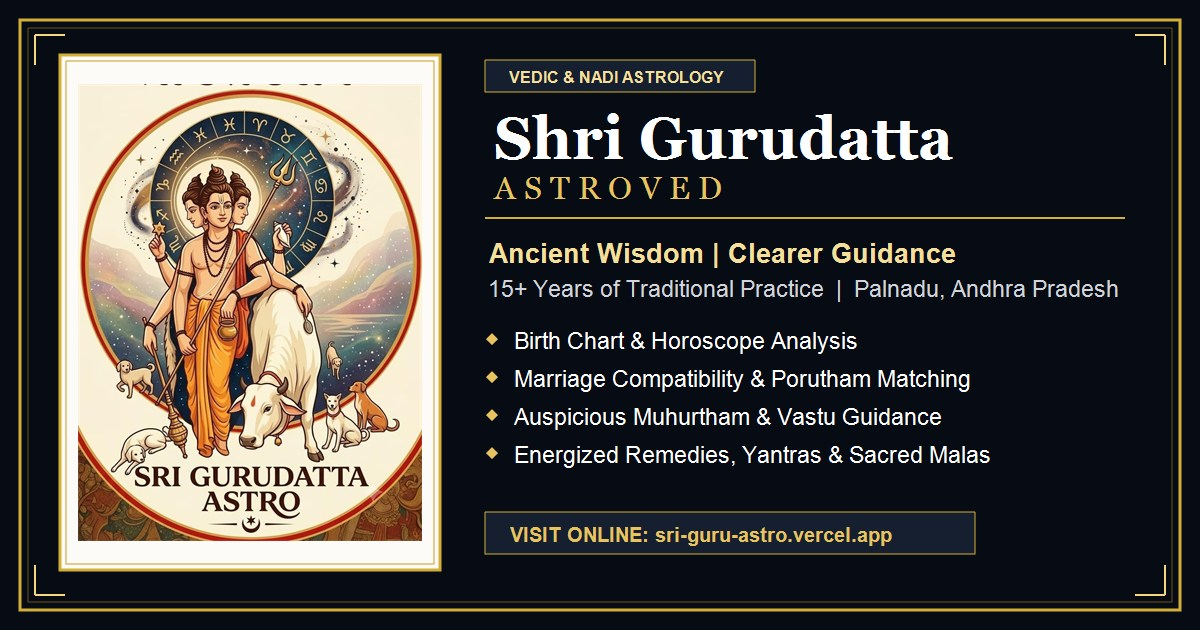
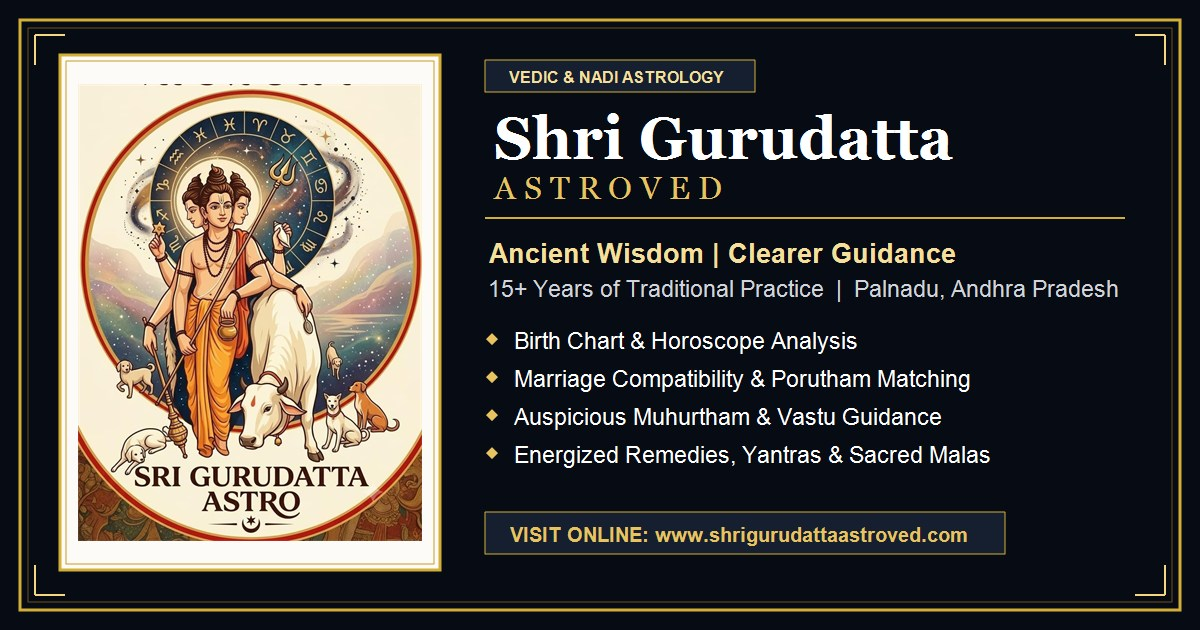
adminfixed

Changed region(s): [[0.5242, 0.8143, 0.8633, 0.8746]]

diff --git a/index.html b/index.html
@@ -8,12 +8,12 @@
   
   <!-- Open Graph / WhatsApp / Facebook / Telegram -->
   <meta property="og:type" content="website">
-  <meta property="og:url" content="https://sri-guru-astro.vercel.app/">
+  <meta property="og:url" content="https://www.shrigurudattaastroved.com/">
   <meta property="og:site_name" content="Shri Gurudatta Astroved">
   <meta property="og:title" content="Shri Gurudatta Astroved | 15+ Years of Vedic Astrology Guidance">
   <meta property="og:description" content="Traditional Vedic astrology, Bhrigu Nandi Nadi, KP System, and spiritual guidance in Palnadu, Andhra Pradesh.">
-  <meta property="og:image" content="https://res.cloudinary.com/tkvwcljs/image/upload/v1791043918/gurudatta_astro/og_preview.jpg">
-  <meta property="og:image:secure_url" content="https://res.cloudinary.com/tkvwcljs/image/upload/v1791043918/gurudatta_astro/og_preview.jpg">
+  <meta property="og:image" content="https://res.cloudinary.com/tkvwcljs/image/upload/v1791049320/gurudatta_astro/og_preview.jpg">
+  <meta property="og:image:secure_url" content="https://res.cloudinary.com/tkvwcljs/image/upload/v1791049320/gurudatta_astro/og_preview.jpg">
   <meta property="og:image:type" content="image/jpeg">
   <meta property="og:image:width" content="1200">
   <meta property="og:image:height" content="630">
@@ -21,12 +21,12 @@
 
   <!-- Twitter / X -->
   <meta name="twitter:card" content="summary_large_image">
-  <meta name="twitter:url" content="https://sri-guru-astro.vercel.app/">
+  <meta name="twitter:url" content="https://www.shrigurudattaastroved.com/">
   <meta name="twitter:title" content="Shri Gurudatta Astroved | 15+ Years of Vedic Astrology Guidance">
   <meta name="twitter:description" content="Traditional Vedic astrology, Bhrigu Nandi Nadi, KP System, and spiritual guidance in Palnadu, Andhra Pradesh.">
-  <meta name="twitter:image" content="https://res.cloudinary.com/tkvwcljs/image/upload/v1791043918/gurudatta_astro/og_preview.jpg">
+  <meta name="twitter:image" content="https://res.cloudinary.com/tkvwcljs/image/upload/v1791049320/gurudatta_astro/og_preview.jpg">
 
-  <link rel="canonical" href="https://sri-guru-astro.vercel.app/">
+  <link rel="canonical" href="https://www.shrigurudattaastroved.com/">
 
   <!-- Google Fonts: Cormorant Garamond & Outfit -->
   <link rel="preconnect" href="https://fonts.googleapis.com">
@@ -42,9 +42,9 @@
     "@context": "https://schema.org",
     "@type": "ProfessionalService",
     "name": "Shri Gurudatta Astroved",
-    "image": "https://res.cloudinary.com/tkvwcljs/image/upload/v1791043918/gurudatta_astro/og_preview.jpg",
-    "@id": "https://sri-guru-astro.vercel.app/",
-    "url": "https://sri-guru-astro.vercel.app/",
+    "image": "https://res.cloudinary.com/tkvwcljs/image/upload/v1791049320/gurudatta_astro/og_preview.jpg",
+    "@id": "https://www.shrigurudattaastroved.com/",
+    "url": "https://www.shrigurudattaastroved.com/",
     "telephone": "+919063862498",
     "priceRange": "₹₹",
     "address": {

diff --git a/service-horoscope-analysis.html b/service-horoscope-analysis.html
@@ -9,24 +9,24 @@
   
   <!-- Open Graph / WhatsApp / Facebook / Telegram -->
   <meta property="og:type" content="website">
-  <meta property="og:url" content="https://sri-guru-astro.vercel.app/service-horoscope-analysis.html">
+  <meta property="og:url" content="https://www.shrigurudattaastroved.com/service-horoscope-analysis.html">
   <meta property="og:site_name" content="Shri Gurudatta Astroved">
   <meta property="og:title" content="Complete Horoscope Analysis | Shri Gurudatta Astroved">
   <meta property="og:description" content="In-depth birth chart (Janma Kundali) analysis across 12 houses of life, planetary yogas, Dasha periods, and personalized remedies with 15+ years experience.">
-  <meta property="og:image" content="https://res.cloudinary.com/tkvwcljs/image/upload/v1791043918/gurudatta_astro/og_preview.jpg">
-  <meta property="og:image:secure_url" content="https://res.cloudinary.com/tkvwcljs/image/upload/v1791043918/gurudatta_astro/og_preview.jpg">
+  <meta property="og:image" content="https://res.cloudinary.com/tkvwcljs/image/upload/v1791049320/gurudatta_astro/og_preview.jpg">
+  <meta property="og:image:secure_url" content="https://res.cloudinary.com/tkvwcljs/image/upload/v1791049320/gurudatta_astro/og_preview.jpg">
   <meta property="og:image:type" content="image/jpeg">
   <meta property="og:image:width" content="1200">
   <meta property="og:image:height" content="630">
 
   <!-- Twitter / X -->
   <meta name="twitter:card" content="summary_large_image">
-  <meta name="twitter:url" content="https://sri-guru-astro.vercel.app/service-horoscope-analysis.html">
+  <meta name="twitter:url" content="https://www.shrigurudattaastroved.com/service-horoscope-analysis.html">
   <meta name="twitter:title" content="Complete Horoscope Analysis | Shri Gurudatta Astroved">
   <meta name="twitter:description" content="In-depth birth chart (Janma Kundali) analysis across 12 houses of life, planetary yogas, Dasha periods, and personalized remedies with 15+ years experience.">
-  <meta name="twitter:image" content="https://res.cloudinary.com/tkvwcljs/image/upload/v1791043918/gurudatta_astro/og_preview.jpg">
+  <meta name="twitter:image" content="https://res.cloudinary.com/tkvwcljs/image/upload/v1791049320/gurudatta_astro/og_preview.jpg">
 
-  <link rel="canonical" href="https://sri-guru-astro.vercel.app/service-horoscope-analysis.html">
+  <link rel="canonical" href="https://www.shrigurudattaastroved.com/service-horoscope-analysis.html">
 <link rel="preconnect" href="https://fonts.googleapis.com">
   <link rel="preconnect" href="https://fonts.gstatic.com" crossorigin>
   <link href="https://fonts.googleapis.com/css2?family=Cormorant+Garamond:ital,wght@0,400;0,500;0,600;0,700;1,400;1,600&family=Outfit:wght@300;400;500;600;700&display=swap" rel="stylesheet">

diff --git a/service-marriage-counselling.html b/service-marriage-counselling.html
@@ -8,24 +8,24 @@
   
   <!-- Open Graph / WhatsApp / Facebook / Telegram -->
   <meta property="og:type" content="website">
-  <meta property="og:url" content="https://sri-guru-astro.vercel.app/service-marriage-counselling.html">
+  <meta property="og:url" content="https://www.shrigurudattaastroved.com/service-marriage-counselling.html">
   <meta property="og:site_name" content="Shri Gurudatta Astroved">
   <meta property="og:title" content="Marriage Counselling | Shri Gurudatta Astroved">
   <meta property="og:description" content="Astrological resolution of marital misunderstandings, transits causing friction, and peaceful remedial paths with 15+ years experience.">
-  <meta property="og:image" content="https://res.cloudinary.com/tkvwcljs/image/upload/v1791043918/gurudatta_astro/og_preview.jpg">
-  <meta property="og:image:secure_url" content="https://res.cloudinary.com/tkvwcljs/image/upload/v1791043918/gurudatta_astro/og_preview.jpg">
+  <meta property="og:image" content="https://res.cloudinary.com/tkvwcljs/image/upload/v1791049320/gurudatta_astro/og_preview.jpg">
+  <meta property="og:image:secure_url" content="https://res.cloudinary.com/tkvwcljs/image/upload/v1791049320/gurudatta_astro/og_preview.jpg">
   <meta property="og:image:type" content="image/jpeg">
   <meta property="og:image:width" content="1200">
   <meta property="og:image:height" content="630">
 
   <!-- Twitter / X -->
   <meta name="twitter:card" content="summary_large_image">
-  <meta name="twitter:url" content="https://sri-guru-astro.vercel.app/service-marriage-counselling.html">
+  <meta name="twitter:url" content="https://www.shrigurudattaastroved.com/service-marriage-counselling.html">
   <meta name="twitter:title" content="Marriage Counselling | Shri Gurudatta Astroved">
   <meta name="twitter:description" content="Astrological resolution of marital misunderstandings, transits causing friction, and peaceful remedial paths with 15+ years experience.">
-  <meta name="twitter:image" content="https://res.cloudinary.com/tkvwcljs/image/upload/v1791043918/gurudatta_astro/og_preview.jpg">
+  <meta name="twitter:image" content="https://res.cloudinary.com/tkvwcljs/image/upload/v1791049320/gurudatta_astro/og_preview.jpg">
 
-  <link rel="canonical" href="https://sri-guru-astro.vercel.app/service-marriage-counselling.html">
+  <link rel="canonical" href="https://www.shrigurudattaastroved.com/service-marriage-counselling.html">
 <link rel="preconnect" href="https://fonts.googleapis.com">
   <link rel="preconnect" href="https://fonts.gstatic.com" crossorigin>
   <link href="https://fonts.googleapis.com/css2?family=Cormorant+Garamond:ital,wght@0,400;0,500;0,600;0,700;1,400;1,600&family=Outfit:wght@300;400;500;600;700&display=swap" rel="stylesheet">

diff --git a/service-astro-counselling.html b/service-astro-counselling.html
@@ -8,24 +8,24 @@
   
   <!-- Open Graph / WhatsApp / Facebook / Telegram -->
   <meta property="og:type" content="website">
-  <meta property="og:url" content="https://sri-guru-astro.vercel.app/service-astro-counselling.html">
+  <meta property="og:url" content="https://www.shrigurudattaastroved.com/service-astro-counselling.html">
   <meta property="og:site_name" content="Shri Gurudatta Astroved">
   <meta property="og:title" content="Astro Counselling | Shri Gurudatta Astroved">
   <meta property="og:description" content="Empathetic, confidential astrological counselling for career stagnation, emotional stress, and major life decisions with 15+ years experience.">
-  <meta property="og:image" content="https://res.cloudinary.com/tkvwcljs/image/upload/v1791043918/gurudatta_astro/og_preview.jpg">
-  <meta property="og:image:secure_url" content="https://res.cloudinary.com/tkvwcljs/image/upload/v1791043918/gurudatta_astro/og_preview.jpg">
+  <meta property="og:image" content="https://res.cloudinary.com/tkvwcljs/image/upload/v1791049320/gurudatta_astro/og_preview.jpg">
+  <meta property="og:image:secure_url" content="https://res.cloudinary.com/tkvwcljs/image/upload/v1791049320/gurudatta_astro/og_preview.jpg">
   <meta property="og:image:type" content="image/jpeg">
   <meta property="og:image:width" content="1200">
   <meta property="og:image:height" content="630">
 
   <!-- Twitter / X -->
   <meta name="twitter:card" content="summary_large_image">
-  <meta name="twitter:url" content="https://sri-guru-astro.vercel.app/service-astro-counselling.html">
+  <meta name="twitter:url" content="https://www.shrigurudattaastroved.com/service-astro-counselling.html">
   <meta name="twitter:title" content="Astro Counselling | Shri Gurudatta Astroved">
   <meta name="twitter:description" content="Empathetic, confidential astrological counselling for career stagnation, emotional stress, and major life decisions with 15+ years experience.">
-  <meta name="twitter:image" content="https://res.cloudinary.com/tkvwcljs/image/upload/v1791043918/gurudatta_astro/og_preview.jpg">
+  <meta name="twitter:image" content="https://res.cloudinary.com/tkvwcljs/image/upload/v1791049320/gurudatta_astro/og_preview.jpg">
 
-  <link rel="canonical" href="https://sri-guru-astro.vercel.app/service-astro-counselling.html">
+  <link rel="canonical" href="https://www.shrigurudattaastroved.com/service-astro-counselling.html">
 <link rel="preconnect" href="https://fonts.googleapis.com">
   <link rel="preconnect" href="https://fonts.gstatic.com" crossorigin>
   <link href="https://fonts.googleapis.com/css2?family=Cormorant+Garamond:ital,wght@0,400;0,500;0,600;0,700;1,400;1,600&family=Outfit:wght@300;400;500;600;700&display=swap" rel="stylesheet">

diff --git a/service-general-prediction.html b/service-general-prediction.html
@@ -9,24 +9,24 @@
   
   <!-- Open Graph / WhatsApp / Facebook / Telegram -->
   <meta property="og:type" content="website">
-  <meta property="og:url" content="https://sri-guru-astro.vercel.app/service-general-prediction.html">
+  <meta property="og:url" content="https://www.shrigurudattaastroved.com/service-general-prediction.html">
   <meta property="og:site_name" content="Shri Gurudatta Astroved">
   <meta property="og:title" content="General Prediction | Shri Gurudatta Astroved">
   <meta property="og:description" content="Get clarity on your current life cycle, planetary transits, and upcoming trends with authentic Vedic guidance and 15+ years experience.">
-  <meta property="og:image" content="https://res.cloudinary.com/tkvwcljs/image/upload/v1791043918/gurudatta_astro/og_preview.jpg">
-  <meta property="og:image:secure_url" content="https://res.cloudinary.com/tkvwcljs/image/upload/v1791043918/gurudatta_astro/og_preview.jpg">
+  <meta property="og:image" content="https://res.cloudinary.com/tkvwcljs/image/upload/v1791049320/gurudatta_astro/og_preview.jpg">
+  <meta property="og:image:secure_url" content="https://res.cloudinary.com/tkvwcljs/image/upload/v1791049320/gurudatta_astro/og_preview.jpg">
   <meta property="og:image:type" content="image/jpeg">
   <meta property="og:image:width" content="1200">
   <meta property="og:image:height" content="630">
 
   <!-- Twitter / X -->
   <meta name="twitter:card" content="summary_large_image">
-  <meta name="twitter:url" content="https://sri-guru-astro.vercel.app/service-general-prediction.html">
+  <meta name="twitter:url" content="https://www.shrigurudattaastroved.com/service-general-prediction.html">
   <meta name="twitter:title" content="General Prediction | Shri Gurudatta Astroved">
   <meta name="twitter:description" content="Get clarity on your current life cycle, planetary transits, and upcoming trends with authentic Vedic guidance and 15+ years experience.">
-  <meta name="twitter:image" content="https://res.cloudinary.com/tkvwcljs/image/upload/v1791043918/gurudatta_astro/og_preview.jpg">
+  <meta name="twitter:image" content="https://res.cloudinary.com/tkvwcljs/image/upload/v1791049320/gurudatta_astro/og_preview.jpg">
 
-  <link rel="canonical" href="https://sri-guru-astro.vercel.app/service-general-prediction.html">
+  <link rel="canonical" href="https://www.shrigurudattaastroved.com/service-general-prediction.html">
 <link rel="preconnect" href="https://fonts.googleapis.com">
   <link rel="preconnect" href="https://fonts.gstatic.com" crossorigin>
   <link href="https://fonts.googleapis.com/css2?family=Cormorant+Garamond:ital,wght@0,400;0,500;0,600;0,700;1,400;1,600&family=Outfit:wght@300;400;500;600;700&display=swap" rel="stylesheet">

diff --git a/service-marriage-matching.html b/service-marriage-matching.html
@@ -8,24 +8,24 @@
   
   <!-- Open Graph / WhatsApp / Facebook / Telegram -->
   <meta property="og:type" content="website">
-  <meta property="og:url" content="https://sri-guru-astro.vercel.app/service-marriage-matching.html">
+  <meta property="og:url" content="https://www.shrigurudattaastroved.com/service-marriage-matching.html">
   <meta property="og:site_name" content="Shri Gurudatta Astroved">
   <meta property="og:title" content="Marriage Matching | Shri Gurudatta Astroved">
   <meta property="og:description" content="Traditional Vedic horoscope matching, Ashtakoota compatibility, Manglik dosha balancing, and longevity analysis with 15+ years experience.">
-  <meta property="og:image" content="https://res.cloudinary.com/tkvwcljs/image/upload/v1791043918/gurudatta_astro/og_preview.jpg">
-  <meta property="og:image:secure_url" content="https://res.cloudinary.com/tkvwcljs/image/upload/v1791043918/gurudatta_astro/og_preview.jpg">
+  <meta property="og:image" content="https://res.cloudinary.com/tkvwcljs/image/upload/v1791049320/gurudatta_astro/og_preview.jpg">
+  <meta property="og:image:secure_url" content="https://res.cloudinary.com/tkvwcljs/image/upload/v1791049320/gurudatta_astro/og_preview.jpg">
   <meta property="og:image:type" content="image/jpeg">
   <meta property="og:image:width" content="1200">
   <meta property="og:image:height" content="630">
 
   <!-- Twitter / X -->
   <meta name="twitter:card" content="summary_large_image">
-  <meta name="twitter:url" content="https://sri-guru-astro.vercel.app/service-marriage-matching.html">
+  <meta name="twitter:url" content="https://www.shrigurudattaastroved.com/service-marriage-matching.html">
   <meta name="twitter:title" content="Marriage Matching | Shri Gurudatta Astroved">
   <meta name="twitter:description" content="Traditional Vedic horoscope matching, Ashtakoota compatibility, Manglik dosha balancing, and longevity analysis with 15+ years experience.">
-  <meta name="twitter:image" content="https://res.cloudinary.com/tkvwcljs/image/upload/v1791043918/gurudatta_astro/og_preview.jpg">
+  <meta name="twitter:image" content="https://res.cloudinary.com/tkvwcljs/image/upload/v1791049320/gurudatta_astro/og_preview.jpg">
 
-  <link rel="canonical" href="https://sri-guru-astro.vercel.app/service-marriage-matching.html">
+  <link rel="canonical" href="https://www.shrigurudattaastroved.com/service-marriage-matching.html">
 <link rel="preconnect" href="https://fonts.googleapis.com">
   <link rel="preconnect" href="https://fonts.gstatic.com" crossorigin>
   <link href="https://fonts.googleapis.com/css2?family=Cormorant+Garamond:ital,wght@0,400;0,500;0,600;0,700;1,400;1,600&family=Outfit:wght@300;400;500;600;700&display=swap" rel="stylesheet">

diff --git a/service-homam-puja.html b/service-homam-puja.html
@@ -8,24 +8,24 @@
   
   <!-- Open Graph / WhatsApp / Facebook / Telegram -->
   <meta property="og:type" content="website">
-  <meta property="og:url" content="https://sri-guru-astro.vercel.app/service-homam-puja.html">
+  <meta property="og:url" content="https://www.shrigurudattaastroved.com/service-homam-puja.html">
   <meta property="og:site_name" content="Shri Gurudatta Astroved">
   <meta property="og:title" content="Homam, Japam & Puja Services | Shri Gurudatta Astroved">
   <meta property="og:description" content="Authentic Vedic fire rituals, Navagraha Shanti, and Mantra Japa performed according to strict Shastric injunctions with 15+ years experience.">
-  <meta property="og:image" content="https://res.cloudinary.com/tkvwcljs/image/upload/v1791043918/gurudatta_astro/og_preview.jpg">
-  <meta property="og:image:secure_url" content="https://res.cloudinary.com/tkvwcljs/image/upload/v1791043918/gurudatta_astro/og_preview.jpg">
+  <meta property="og:image" content="https://res.cloudinary.com/tkvwcljs/image/upload/v1791049320/gurudatta_astro/og_preview.jpg">
+  <meta property="og:image:secure_url" content="https://res.cloudinary.com/tkvwcljs/image/upload/v1791049320/gurudatta_astro/og_preview.jpg">
   <meta property="og:image:type" content="image/jpeg">
   <meta property="og:image:width" content="1200">
   <meta property="og:image:height" content="630">
 
   <!-- Twitter / X -->
   <meta name="twitter:card" content="summary_large_image">
-  <meta name="twitter:url" content="https://sri-guru-astro.vercel.app/service-homam-puja.html">
+  <meta name="twitter:url" content="https://www.shrigurudattaastroved.com/service-homam-puja.html">
   <meta name="twitter:title" content="Homam, Japam & Puja Services | Shri Gurudatta Astroved">
   <meta name="twitter:description" content="Authentic Vedic fire rituals, Navagraha Shanti, and Mantra Japa performed according to strict Shastric injunctions with 15+ years experience.">
-  <meta name="twitter:image" content="https://res.cloudinary.com/tkvwcljs/image/upload/v1791043918/gurudatta_astro/og_preview.jpg">
+  <meta name="twitter:image" content="https://res.cloudinary.com/tkvwcljs/image/upload/v1791049320/gurudatta_astro/og_preview.jpg">
 
-  <link rel="canonical" href="https://sri-guru-astro.vercel.app/service-homam-puja.html">
+  <link rel="canonical" href="https://www.shrigurudattaastroved.com/service-homam-puja.html">
 <link rel="preconnect" href="https://fonts.googleapis.com">
   <link rel="preconnect" href="https://fonts.gstatic.com" crossorigin>
   <link href="https://fonts.googleapis.com/css2?family=Cormorant+Garamond:ital,wght@0,400;0,500;0,600;0,700;1,400;1,600&family=Outfit:wght@300;400;500;600;700&display=swap" rel="stylesheet">

diff --git a/product-pasupata-kankanam.html b/product-pasupata-kankanam.html
@@ -9,24 +9,24 @@
   
   <!-- Open Graph / WhatsApp / Facebook / Telegram -->
   <meta property="og:type" content="website">
-  <meta property="og:url" content="https://sri-guru-astro.vercel.app/product-pasupata-kankanam.html">
+  <meta property="og:url" content="https://www.shrigurudattaastroved.com/product-pasupata-kankanam.html">
   <meta property="og:site_name" content="Shri Gurudatta Astroved">
   <meta property="og:title" content="Pasupata Kankanalu (Protection Bangle) | Shri Gurudatta Astroved">
   <meta property="og:description" content="Consecrated copper-silver sacred wristband infused with Pasupata Astra mantra for unassailable protection.">
-  <meta property="og:image" content="https://res.cloudinary.com/tkvwcljs/image/upload/v1791043918/gurudatta_astro/og_preview.jpg">
-  <meta property="og:image:secure_url" content="https://res.cloudinary.com/tkvwcljs/image/upload/v1791043918/gurudatta_astro/og_preview.jpg">
+  <meta property="og:image" content="https://res.cloudinary.com/tkvwcljs/image/upload/v1791049320/gurudatta_astro/og_preview.jpg">
+  <meta property="og:image:secure_url" content="https://res.cloudinary.com/tkvwcljs/image/upload/v1791049320/gurudatta_astro/og_preview.jpg">
   <meta property="og:image:type" content="image/jpeg">
   <meta property="og:image:width" content="1200">
   <meta property="og:image:height" content="630">
 
   <!-- Twitter / X -->
   <meta name="twitter:card" content="summary_large_image">
-  <meta name="twitter:url" content="https://sri-guru-astro.vercel.app/product-pasupata-kankanam.html">
+  <meta name="twitter:url" content="https://www.shrigurudattaastroved.com/product-pasupata-kankanam.html">
   <meta name="twitter:title" content="Pasupata Kankanalu (Protection Bangle) | Shri Gurudatta Astroved">
   <meta name="twitter:description" content="Consecrated copper-silver sacred wristband infused with Pasupata Astra mantra for unassailable protection.">
-  <meta name="twitter:image" content="https://res.cloudinary.com/tkvwcljs/image/upload/v1791043918/gurudatta_astro/og_preview.jpg">
+  <meta name="twitter:image" content="https://res.cloudinary.com/tkvwcljs/image/upload/v1791049320/gurudatta_astro/og_preview.jpg">
 
-  <link rel="canonical" href="https://sri-guru-astro.vercel.app/product-pasupata-kankanam.html">
+  <link rel="canonical" href="https://www.shrigurudattaastroved.com/product-pasupata-kankanam.html">
 <link rel="preconnect" href="https://fonts.googleapis.com">
   <link rel="preconnect" href="https://fonts.gstatic.com" crossorigin>
   <link href="https://fonts.googleapis.com/css2?family=Cormorant+Garamond:ital,wght@0,400;0,500;0,600;0,700;1,400;1,600&family=Outfit:wght@300;400;500;600;700&display=swap" rel="stylesheet">

diff --git a/product-customized-remedy-kits.html b/product-customized-remedy-kits.html
@@ -9,24 +9,24 @@
   
   <!-- Open Graph / WhatsApp / Facebook / Telegram -->
   <meta property="og:type" content="website">
-  <meta property="og:url" content="https://sri-guru-astro.vercel.app/product-customized-remedy-kits.html">
+  <meta property="og:url" content="https://www.shrigurudattaastroved.com/product-customized-remedy-kits.html">
   <meta property="og:site_name" content="Shri Gurudatta Astroved">
   <meta property="og:title" content="Customized Remedy Kits | Shri Gurudatta Astroved">
   <meta property="og:description" content="Personalized Vedic Remedy Kit containing consecrated Yantras and sacred items tailored to your horoscope.">
-  <meta property="og:image" content="https://res.cloudinary.com/tkvwcljs/image/upload/v1791043918/gurudatta_astro/og_preview.jpg">
-  <meta property="og:image:secure_url" content="https://res.cloudinary.com/tkvwcljs/image/upload/v1791043918/gurudatta_astro/og_preview.jpg">
+  <meta property="og:image" content="https://res.cloudinary.com/tkvwcljs/image/upload/v1791049320/gurudatta_astro/og_preview.jpg">
+  <meta property="og:image:secure_url" content="https://res.cloudinary.com/tkvwcljs/image/upload/v1791049320/gurudatta_astro/og_preview.jpg">
   <meta property="og:image:type" content="image/jpeg">
   <meta property="og:image:width" content="1200">
   <meta property="og:image:height" content="630">
 
   <!-- Twitter / X -->
   <meta name="twitter:card" content="summary_large_image">
-  <meta name="twitter:url" content="https://sri-guru-astro.vercel.app/product-customized-remedy-kits.html">
+  <meta name="twitter:url" content="https://www.shrigurudattaastroved.com/product-customized-remedy-kits.html">
   <meta name="twitter:title" content="Customized Remedy Kits | Shri Gurudatta Astroved">
   <meta name="twitter:description" content="Personalized Vedic Remedy Kit containing consecrated Yantras and sacred items tailored to your horoscope.">
-  <meta name="twitter:image" content="https://res.cloudinary.com/tkvwcljs/image/upload/v1791043918/gurudatta_astro/og_preview.jpg">
+  <meta name="twitter:image" content="https://res.cloudinary.com/tkvwcljs/image/upload/v1791049320/gurudatta_astro/og_preview.jpg">
 
-  <link rel="canonical" href="https://sri-guru-astro.vercel.app/product-customized-remedy-kits.html">
+  <link rel="canonical" href="https://www.shrigurudattaastroved.com/product-customized-remedy-kits.html">
 <link rel="preconnect" href="https://fonts.googleapis.com">
   <link rel="preconnect" href="https://fonts.gstatic.com" crossorigin>
   <link href="https://fonts.googleapis.com/css2?family=Cormorant+Garamond:ital,wght@0,400;0,500;0,600;0,700;1,400;1,600&family=Outfit:wght@300;400;500;600;700&display=swap" rel="stylesheet">

diff --git a/product-yantras-pendants.html b/product-yantras-pendants.html
@@ -9,24 +9,24 @@
   
   <!-- Open Graph / WhatsApp / Facebook / Telegram -->
   <meta property="og:type" content="website">
-  <meta property="og:url" content="https://sri-guru-astro.vercel.app/product-yantras-pendants.html">
+  <meta property="og:url" content="https://www.shrigurudattaastroved.com/product-yantras-pendants.html">
   <meta property="og:site_name" content="Shri Gurudatta Astroved">
   <meta property="og:title" content="Yantras & Mantra-Energized Pendant | Shri Gurudatta Astroved">
   <meta property="og:description" content="Consecrated Vedic Sri Chakra Yantra & Mantra-energized golden pendant for prosperity and spiritual protection.">
-  <meta property="og:image" content="https://res.cloudinary.com/tkvwcljs/image/upload/v1791043918/gurudatta_astro/og_preview.jpg">
-  <meta property="og:image:secure_url" content="https://res.cloudinary.com/tkvwcljs/image/upload/v1791043918/gurudatta_astro/og_preview.jpg">
+  <meta property="og:image" content="https://res.cloudinary.com/tkvwcljs/image/upload/v1791049320/gurudatta_astro/og_preview.jpg">
+  <meta property="og:image:secure_url" content="https://res.cloudinary.com/tkvwcljs/image/upload/v1791049320/gurudatta_astro/og_preview.jpg">
   <meta property="og:image:type" content="image/jpeg">
   <meta property="og:image:width" content="1200">
   <meta property="og:image:height" content="630">
 
   <!-- Twitter / X -->
   <meta name="twitter:card" content="summary_large_image">
-  <meta name="twitter:url" content="https://sri-guru-astro.vercel.app/product-yantras-pendants.html">
+  <meta name="twitter:url" content="https://www.shrigurudattaastroved.com/product-yantras-pendants.html">
   <meta name="twitter:title" content="Yantras & Mantra-Energized Pendant | Shri Gurudatta Astroved">
   <meta name="twitter:description" content="Consecrated Vedic Sri Chakra Yantra & Mantra-energized golden pendant for prosperity and spiritual protection.">
-  <meta name="twitter:image" content="https://res.cloudinary.com/tkvwcljs/image/upload/v1791043918/gurudatta_astro/og_preview.jpg">
+  <meta name="twitter:image" content="https://res.cloudinary.com/tkvwcljs/image/upload/v1791049320/gurudatta_astro/og_preview.jpg">
 
-  <link rel="canonical" href="https://sri-guru-astro.vercel.app/product-yantras-pendants.html">
+  <link rel="canonical" href="https://www.shrigurudattaastroved.com/product-yantras-pendants.html">
 <link rel="preconnect" href="https://fonts.googleapis.com">
   <link rel="preconnect" href="https://fonts.gstatic.com" crossorigin>
   <link href="https://fonts.googleapis.com/css2?family=Cormorant+Garamond:ital,wght@0,400;0,500;0,600;0,700;1,400;1,600&family=Outfit:wght@300;400;500;600;700&display=swap" rel="stylesheet">

diff --git a/service-baby-naming.html b/service-baby-naming.html
@@ -8,24 +8,24 @@
   
   <!-- Open Graph / WhatsApp / Facebook / Telegram -->
   <meta property="og:type" content="website">
-  <meta property="og:url" content="https://sri-guru-astro.vercel.app/service-baby-naming.html">
+  <meta property="og:url" content="https://www.shrigurudattaastroved.com/service-baby-naming.html">
   <meta property="og:site_name" content="Shri Gurudatta Astroved">
   <meta property="og:title" content="Newborn Baby Naming | Shri Gurudatta Astroved">
   <meta property="og:description" content="Auspicious starting sound (Akshara) and balanced numerological baby naming based on Janma Nakshatra Pada with 15+ years experience.">
-  <meta property="og:image" content="https://res.cloudinary.com/tkvwcljs/image/upload/v1791043918/gurudatta_astro/og_preview.jpg">
-  <meta property="og:image:secure_url" content="https://res.cloudinary.com/tkvwcljs/image/upload/v1791043918/gurudatta_astro/og_preview.jpg">
+  <meta property="og:image" content="https://res.cloudinary.com/tkvwcljs/image/upload/v1791049320/gurudatta_astro/og_preview.jpg">
+  <meta property="og:image:secure_url" content="https://res.cloudinary.com/tkvwcljs/image/upload/v1791049320/gurudatta_astro/og_preview.jpg">
   <meta property="og:image:type" content="image/jpeg">
   <meta property="og:image:width" content="1200">
   <meta property="og:image:height" content="630">
 
   <!-- Twitter / X -->
   <meta name="twitter:card" content="summary_large_image">
-  <meta name="twitter:url" content="https://sri-guru-astro.vercel.app/service-baby-naming.html">
+  <meta name="twitter:url" content="https://www.shrigurudattaastroved.com/service-baby-naming.html">
   <meta name="twitter:title" content="Newborn Baby Naming | Shri Gurudatta Astroved">
   <meta name="twitter:description" content="Auspicious starting sound (Akshara) and balanced numerological baby naming based on Janma Nakshatra Pada with 15+ years experience.">
-  <meta name="twitter:image" content="https://res.cloudinary.com/tkvwcljs/image/upload/v1791043918/gurudatta_astro/og_preview.jpg">
+  <meta name="twitter:image" content="https://res.cloudinary.com/tkvwcljs/image/upload/v1791049320/gurudatta_astro/og_preview.jpg">
 
-  <link rel="canonical" href="https://sri-guru-astro.vercel.app/service-baby-naming.html">
+  <link rel="canonical" href="https://www.shrigurudattaastroved.com/service-baby-naming.html">
 <link rel="preconnect" href="https://fonts.googleapis.com">
   <link rel="preconnect" href="https://fonts.gstatic.com" crossorigin>
   <link href="https://fonts.googleapis.com/css2?family=Cormorant+Garamond:ital,wght@0,400;0,500;0,600;0,700;1,400;1,600&family=Outfit:wght@300;400;500;600;700&display=swap" rel="stylesheet">

diff --git a/service-vastu.html b/service-vastu.html
@@ -8,24 +8,24 @@
   
   <!-- Open Graph / WhatsApp / Facebook / Telegram -->
   <meta property="og:type" content="website">
-  <meta property="og:url" content="https://sri-guru-astro.vercel.app/service-vastu.html">
+  <meta property="og:url" content="https://www.shrigurudattaastroved.com/service-vastu.html">
   <meta property="og:site_name" content="Shri Gurudatta Astroved">
   <meta property="og:title" content="Vastu Services | Shri Gurudatta Astroved">
   <meta property="og:description" content="Authentic Vedic Vastu Shastra consultation for homes, commercial offices, and plots with practical non-destructive remedies. 15+ years experience.">
-  <meta property="og:image" content="https://res.cloudinary.com/tkvwcljs/image/upload/v1791043918/gurudatta_astro/og_preview.jpg">
-  <meta property="og:image:secure_url" content="https://res.cloudinary.com/tkvwcljs/image/upload/v1791043918/gurudatta_astro/og_preview.jpg">
+  <meta property="og:image" content="https://res.cloudinary.com/tkvwcljs/image/upload/v1791049320/gurudatta_astro/og_preview.jpg">
+  <meta property="og:image:secure_url" content="https://res.cloudinary.com/tkvwcljs/image/upload/v1791049320/gurudatta_astro/og_preview.jpg">
   <meta property="og:image:type" content="image/jpeg">
   <meta property="og:image:width" content="1200">
   <meta property="og:image:height" content="630">
 
   <!-- Twitter / X -->
   <meta name="twitter:card" content="summary_large_image">
-  <meta name="twitter:url" content="https://sri-guru-astro.vercel.app/service-vastu.html">
+  <meta name="twitter:url" content="https://www.shrigurudattaastroved.com/service-vastu.html">
   <meta name="twitter:title" content="Vastu Services | Shri Gurudatta Astroved">
   <meta name="twitter:description" content="Authentic Vedic Vastu Shastra consultation for homes, commercial offices, and plots with practical non-destructive remedies. 15+ years experience.">
-  <meta name="twitter:image" content="https://res.cloudinary.com/tkvwcljs/image/upload/v1791043918/gurudatta_astro/og_preview.jpg">
+  <meta name="twitter:image" content="https://res.cloudinary.com/tkvwcljs/image/upload/v1791049320/gurudatta_astro/og_preview.jpg">
 
-  <link rel="canonical" href="https://sri-guru-astro.vercel.app/service-vastu.html">
+  <link rel="canonical" href="https://www.shrigurudattaastroved.com/service-vastu.html">
 <link rel="preconnect" href="https://fonts.googleapis.com">
   <link rel="preconnect" href="https://fonts.gstatic.com" crossorigin>
   <link href="https://fonts.googleapis.com/css2?family=Cormorant+Garamond:ital,wght@0,400;0,500;0,600;0,700;1,400;1,600&family=Outfit:wght@300;400;500;600;700&display=swap" rel="stylesheet">
